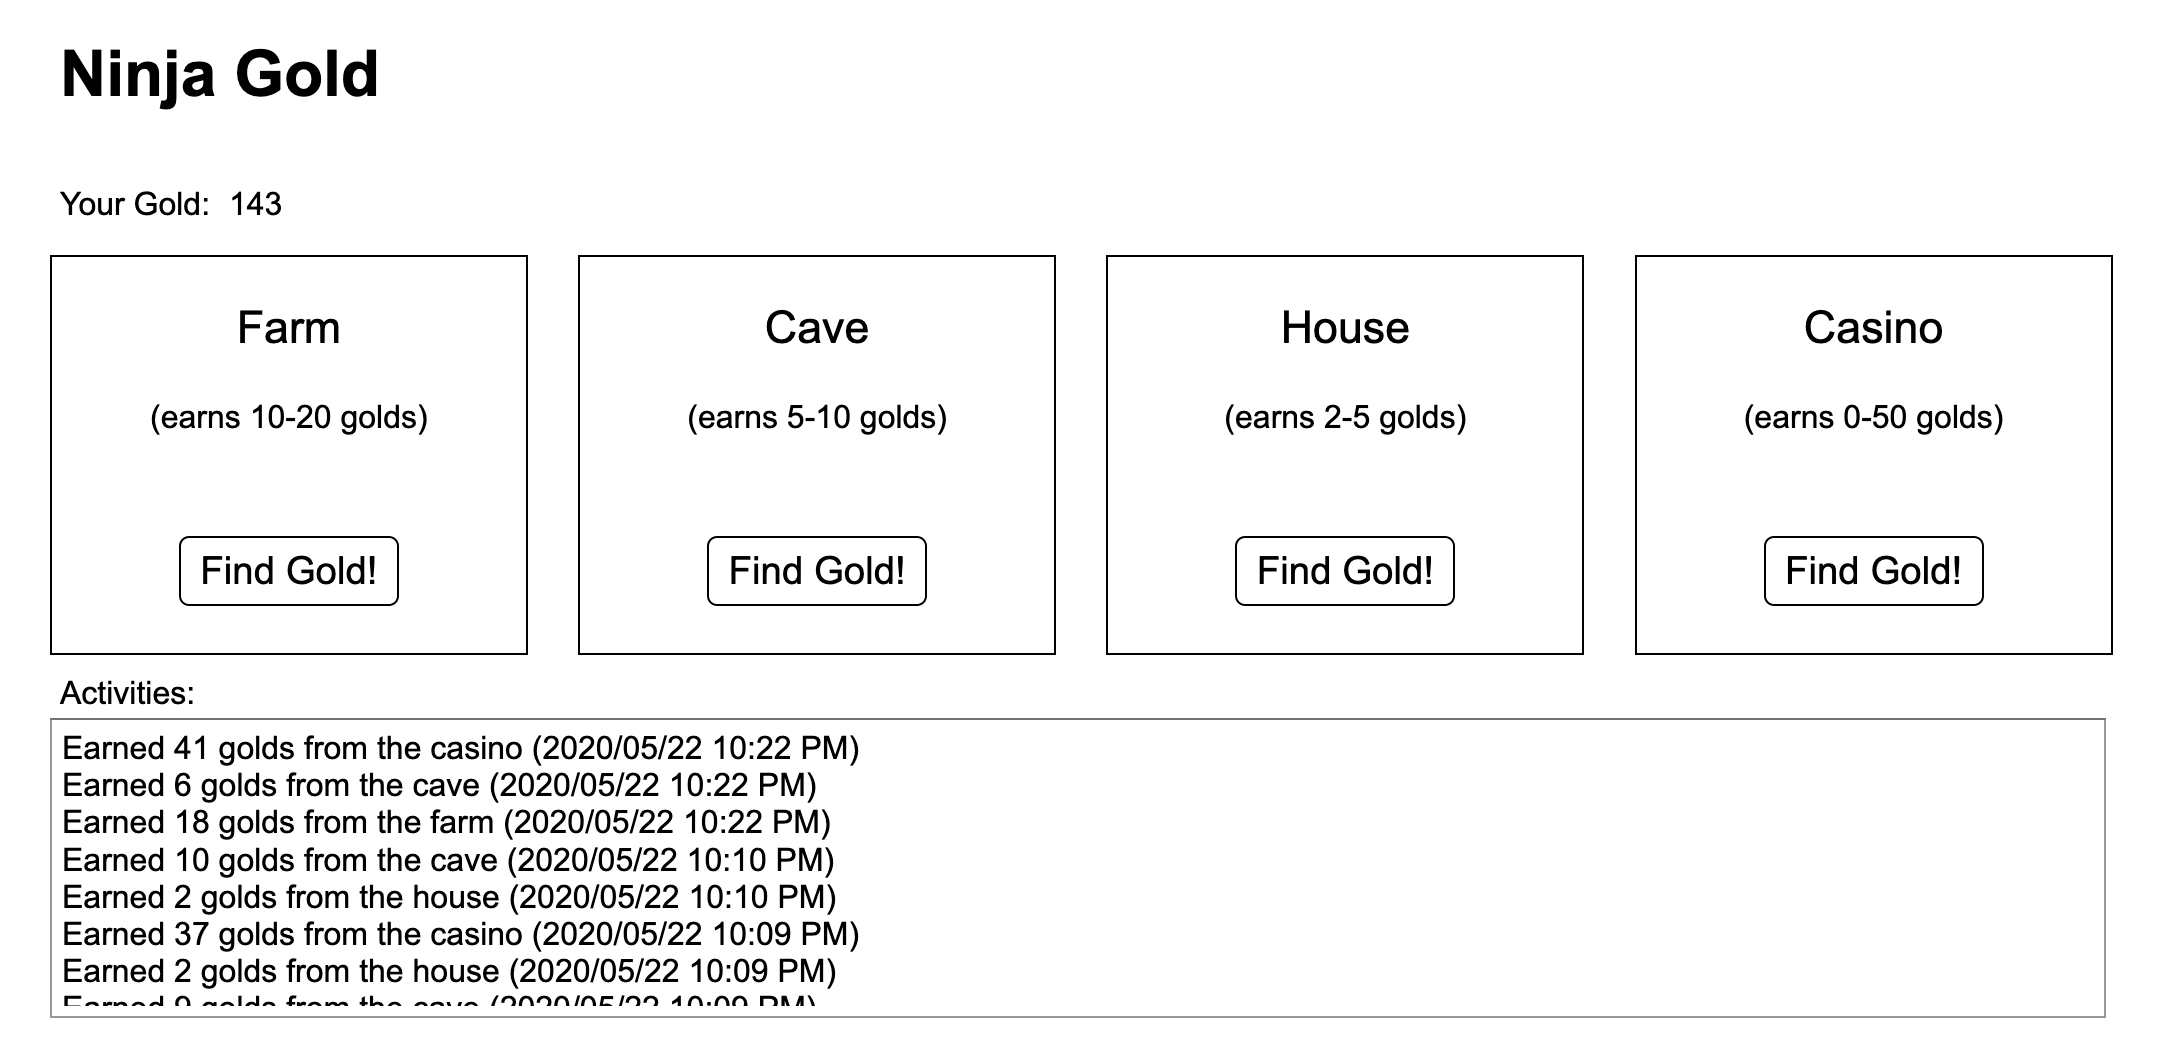
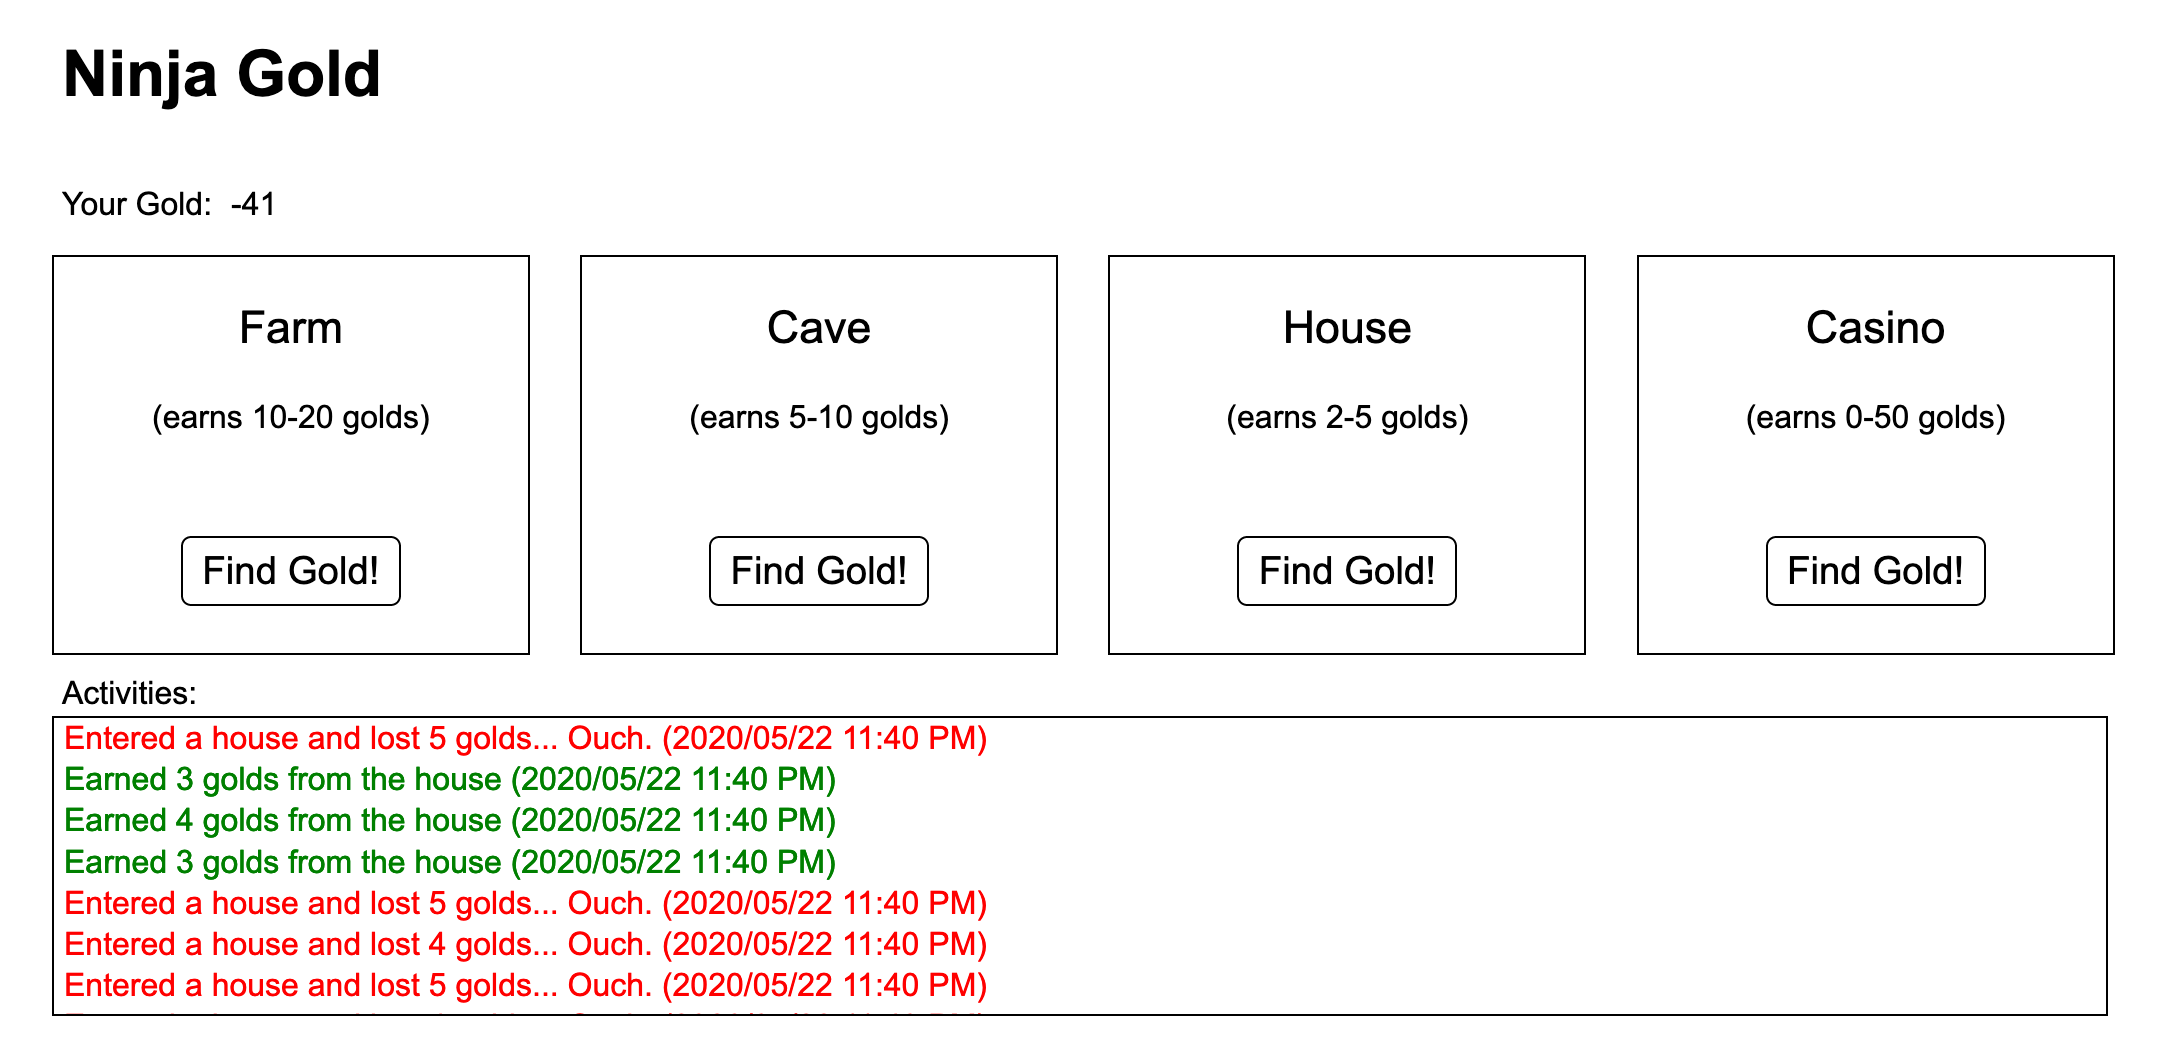
Add support for displaying activities with paragraph tags within a div tag. Add support for displaying as red any log entries where we are deleting gold and displaying as green any log entries where we are increasing gold.

diff --git a/python_stack/django/django_intro/ninja_gold/main/templates/index.html b/python_stack/django/django_intro/ninja_gold/main/templates/index.html
@@ -55,7 +55,8 @@
         </div>
         <p id="activities_title">Activities:</p>
         <div id='activities'>
-            <textarea name="activity_log" id="activity_log">{{ request.session.activity_log }}</textarea>
+            <!-- <textarea name="activity_log" id="activity_log">{{ request.session.activity_log }}</textarea> -->
+            {% autoescape off %}{{ request.session.activity_log}} {% endautoescape %}
         </div>
     </div>
 </body>

diff --git a/python_stack/django/django_intro/ninja_gold/main/static/css/ninja_gold.css b/python_stack/django/django_intro/ninja_gold/main/static/css/ninja_gold.css
@@ -91,6 +91,8 @@ h1 {
     min-width: 950px;
     height: 150px;
     margin: 2px 0 15px 20px;
+    border: solid black 1px;
+    overflow: scroll;
 }
 
 #activity_log {
@@ -99,6 +101,11 @@ h1 {
     resize: none;
     padding: 5px 5px 5px 5px;
     overflow: scroll;
+}
+
+.log_entry {
+    margin: 0;
+    padding: 1px 5px 1px 5px;
 }
 
 .green {

diff --git a/python_stack/django/django_intro/ninja_gold/main/views.py b/python_stack/django/django_intro/ninja_gold/main/views.py
@@ -46,12 +46,12 @@ def process_money(request):
     # Update the total amount of gold and the activity log entry.
     if increase == True:
         request.session['gold'] += gold_this_turn
-        request.session['activity_log'] = f"Earned {gold_this_turn} golds from the {request.POST['location']} ({time})\n" + \
+        request.session['activity_log'] = f"<p class='green log_entry'>Earned {gold_this_turn} golds from the {request.POST['location']} ({time})\n</p>" + \
             request.session['activity_log']
         request.session['increase'] = False
     else:
         request.session['gold'] -= gold_this_turn
-        request.session['activity_log'] = f"Entered a {request.POST['location']} and lost {gold_this_turn} golds... Ouch. ({time})\n" + \
+        request.session['activity_log'] = f"<p class='red log_entry'>Entered a {request.POST['location']} and lost {gold_this_turn} golds... Ouch. ({time})\n</p>" + \
             request.session['activity_log']
         request.session['increase'] = False
 
